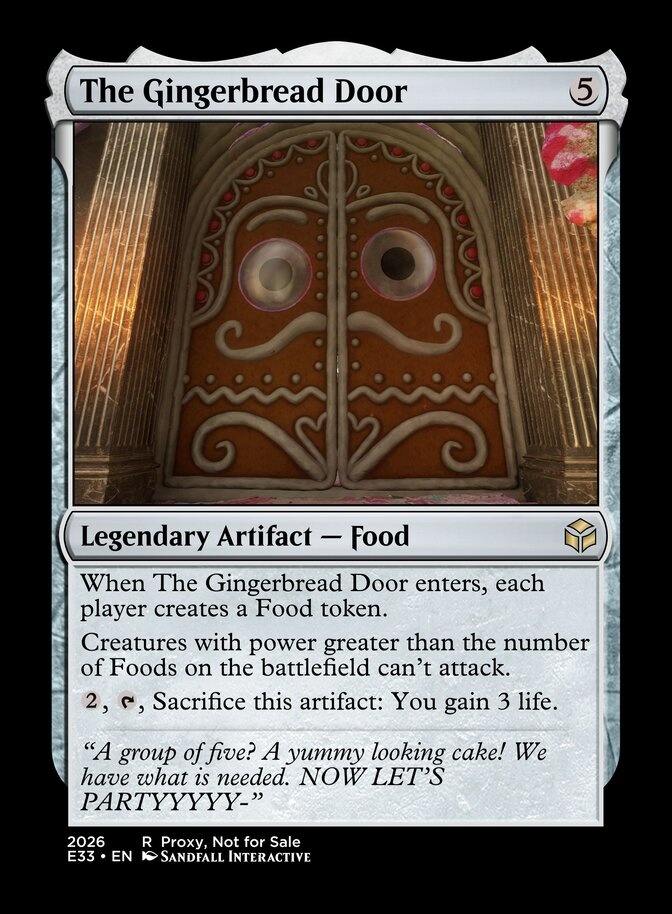
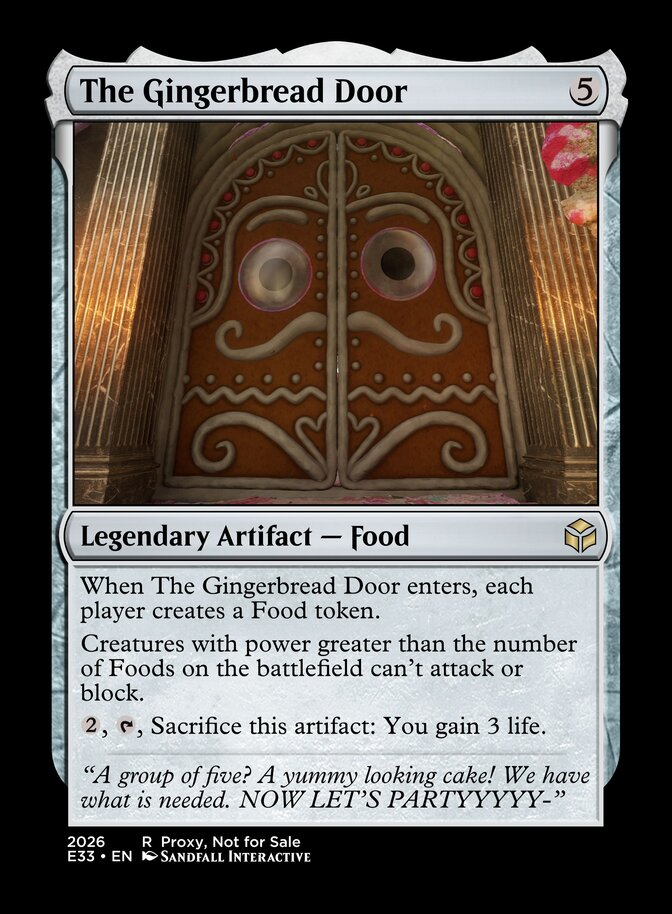
The Gingerbread Door: Extend restrictions to blocking
Fixes #144

Changed region(s): [[0.125, 0.6127, 0.875, 0.8884]]

diff --git a/design/ARTIFACTS.md b/design/ARTIFACTS.md
@@ -1,6 +1,6 @@
 # Cards
 
-> Last generated: 31/5/2026 10:18:28 am
+> Last generated: 20/6/2026 6:20:05 pm
 
 ## A Rock for François
 
@@ -1392,7 +1392,7 @@ Reach (This creature can block creatures with flying.)
 5
 Legendary Artifact - Food
 When The Gingerbread Door enters, each player creates a Food token.
-Creatures with power greater than the number of Foods on the battlefield can’t attack.
+Creatures with power greater than the number of Foods on the battlefield can’t attack or block.
 {2}, {T}, Sacrifice this artifact: You gain 3 life.
 ---
 "A group of five? A yummy looking cake! We have what is needed. NOW LET’S PARTYYYYY-"
@@ -1407,6 +1407,7 @@ Creatures with power greater than the number of Foods on the battlefield can’t
  - It's an obstacle so it's clearly an artifact of the Ensnaring Bridge kind.
  - Instead of counting cards in hand, we count foods on the battlefield (to flavorfully approximate the "you need 3 slices of cake to unlock this door" condition)
  - To give opponents a fighting chance with this in play, a food token is granted on ETB to each player. That way combat is not hard-locked out. 1/2-power creatures can still swing for the fences, but they could be swinging into fatties that can't currently attack, so there's a fine balancing act at play.
+ - 21/06/2026: Extended restrictions to cover blocking as well.
 
 
 ### Rulings
